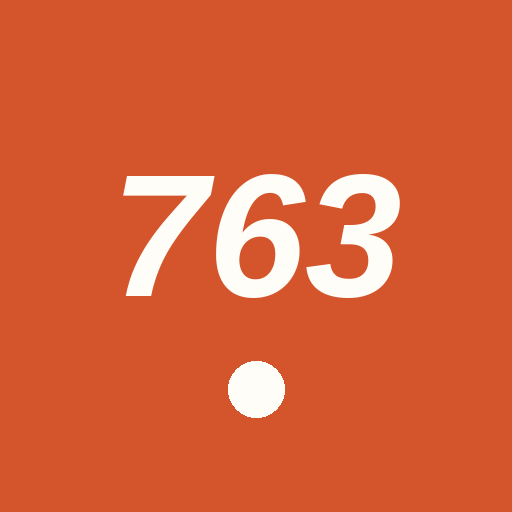
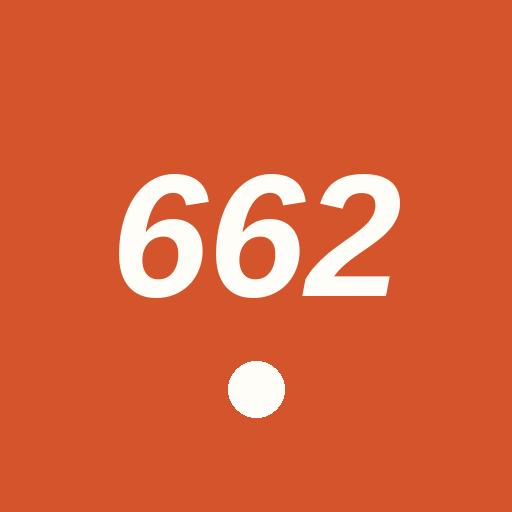
Switch prep tracker to 15-662 Computer Graphics plan
Claude-Session: https://claude.ai/code/session_01VhZfvsRrS4ALEuexr7zm19

Changed region(s): [[0.2188, 0.3438, 0.4375, 0.5938], [0.5938, 0.4375, 0.7812, 0.5938], [0.625, 0.375, 0.6562, 0.4062]]

diff --git a/763-prep/index.html b/763-prep/index.html
@@ -3,8 +3,8 @@
 <head>
 <meta charset="utf-8">
 <meta name="viewport" content="width=device-width, initial-scale=1">
-<title>15-763 Prep · Daily Check-in</title>
-<meta name="description" content="An 8-week, one-hour-a-day prep plan for CMU 15-763 Physics-based Animation of Solids and Fluids.">
+<title>15-662 Prep · Daily Check-in</title>
+<meta name="description" content="An 8-week, one-hour-a-day prep plan for CMU 15-662 Computer Graphics.">
 <link rel="manifest" href="manifest.webmanifest">
 <meta name="theme-color" content="#d4552b">
 <link rel="icon" href="icon-192.png">
@@ -109,9 +109,9 @@
 <body>
 <div class="wrap">
   <header>
-    <div class="eyebrow">CMU 15-763 · Spring 2027 · Prep</div>
-    <h1>One hour a day toward<br>physics-based animation</h1>
-    <p>An 8-week plan: linear algebra → calculus → time integration → optimization → Minchen Li's <em>Physics-Based Simulation</em> book → research mode.</p>
+    <div class="eyebrow">CMU 15-662 · Spring 2027 · Prep</div>
+    <h1>One hour a day toward<br>building your own 3D package</h1>
+    <p>An 8-week plan: C++ → graphics math → rasterizer → half-edge meshes → ray tracer → animation → Scotty3D.</p>
   </header>
 
   <section class="stats" aria-label="Progress">
@@ -148,105 +148,105 @@
     <p class="note">Progress is saved in this browser only. To move it to another device, export here and import there.</p>
   </div>
 
-  <footer>Course: <a href="https://www.cs.cmu.edu/~15763-s26/">15-763 course page</a> · Book: <a href="https://phys-sim-book.github.io/">phys-sim-book.github.io</a></footer>
+  <footer>Course: <a href="https://15462.courses.cs.cmu.edu/fall2022">15-462/662 course site</a> · Code: <a href="https://github.com/CMU-Graphics/Scotty3D">Scotty3D</a></footer>
 </div>
 
 <script>
-const B = "https://phys-sim-book.github.io/";
 const L = {
+  cpp: ["learncpp.com", "https://www.learncpp.com/"],
+  cmake: ["CMake tutorial", "https://cmake.org/cmake/help/latest/guide/tutorial/index.html"],
   eola: ["Essence of Linear Algebra", "https://www.youtube.com/playlist?list=PLZHQObOWTQDPD3MizzM2xVFitgF8hE_ab"],
   khan: ["Khan Academy: Multivariable calculus", "https://www.khanacademy.org/math/multivariable-calculus"],
-  bw: ["Baraff & Witkin course notes", "https://www.cs.cmu.edu/~baraff/sigcourse/"],
-  numpy: ["NumPy quickstart", "https://numpy.org/doc/stable/user/quickstart.html"],
-  scipy: ["scipy.sparse", "https://docs.scipy.org/doc/scipy/reference/sparse.html"],
-  ipc: ["IPC project page", "https://ipc-sim.github.io/"],
-  course: ["15-763 course page", "https://www.cs.cmu.edu/~15763-s26/"],
-  book: ["Book home", B],
+  sap: ["Scratchapixel", "https://www.scratchapixel.com/"],
+  tiny: ["tinyrenderer", "https://github.com/ssloy/tinyrenderer/wiki"],
+  rt1: ["Ray Tracing in One Weekend", "https://raytracing.github.io/books/RayTracingInOneWeekend.html"],
+  rt2: ["Ray Tracing: The Next Week", "https://raytracing.github.io/books/RayTracingTheNextWeek.html"],
+  s3d: ["Scotty3D on GitHub", "https://github.com/CMU-Graphics/Scotty3D"],
+  s3ddocs: ["Scotty3D docs", "https://cmu-graphics.github.io/Scotty3D-docs/"],
+  course: ["15-462/662 course site", "https://15462.courses.cs.cmu.edu/fall2022"],
 };
-const bk = (label, path) => [label, B + path];
 
 const WEEKS = [
- { t:"Linear algebra intuition", g:"See matrices as transformations, and get comfortable with NumPy.", d:[
-  ["Set up + vectors","Set up Python with NumPy and Matplotlib (a venv or Jupyter). Watch the first two Essence of Linear Algebra videos: vectors, span and basis.",[L.eola,L.numpy]],
-  ["Transformations","Watch the videos on linear transformations and matrix multiplication. Code: apply a 2×2 matrix to a grid of points and plot before and after.",[L.eola]],
-  ["Determinant & inverse","Watch the videos on the determinant and on inverse, column space and null space. Code: compute det of a few 2D deformation matrices. What does det < 0 look like? (You'll see this again as 'element inversion'.)",[L.eola]],
-  ["Dot & cross products","Watch the dot product and cross product videos. Code: compute a triangle's area and normal from its 3 vertices.",[L.eola]],
-  ["Change of basis & eigenvectors","Watch the change of basis and eigenvector videos. Connect it: a joint's orient is a change of basis. Code: np.linalg.eig on a symmetric matrix and plot the eigenvectors.",[L.eola]],
-  ["Solving Ax = b","Why solve() beats inv(). Build a 1D Laplacian (tridiagonal) with scipy.sparse and solve it. Every simulator step comes down to this.",[L.scipy]],
-  ["Review + cheat sheet","Catch up if behind. Write a one-page cheat sheet: transform, det, inverse, eigen, solve.",[]],
+ { t:"C++ foundations", g:"Get comfortable writing and compiling small C++ programs.", d:[
+  ["Setup","Install a C++ compiler, CMake and an IDE (VS Code + C/C++ extension, or CLion). Build and run hello world from the terminal.",[L.cpp,L.cmake]],
+  ["Types, functions, references","learncpp: variables, functions, and references. Write a function that swaps two numbers by reference.",[L.cpp]],
+  ["Pointers & memory","learncpp: pointers, the address-of operator, new/delete. Draw a box-and-arrow diagram of what each line does.",[L.cpp]],
+  ["Classes","learncpp: classes, constructors, member functions. Write a Joint class with a name, a parent pointer and a local transform.",[L.cpp]],
+  ["Operator overloading","Write a Vec3 class with +, -, scalar *, dot() and cross(). You'll use it for the rest of the plan.",[L.cpp]],
+  ["The STL","std::vector, std::unordered_map, range-for loops. Store your Joints in a vector and print the hierarchy.",[L.cpp]],
+  ["Review","Catch up. Rewrite the joint hierarchy without looking at your old code.",[]],
  ]},
- { t:"Multivariable calculus & energies", g:"Gradients, Jacobians, Hessians, and checking derivatives numerically.", d:[
-  ["Gradients","Partial derivatives, gradient and directional derivative. Code: plot contours of f(x,y) with gradient arrows on top.",[L.khan]],
-  ["Jacobians","The Jacobian as the local linear map. Code: a finite-difference Jacobian of a 2D map, compared with the analytic one.",[L.khan]],
-  ["Hessian & Taylor","The Hessian and the 2nd-order Taylor approximation. This is what Newton's method uses.",[L.khan]],
-  ["Spring energy: gradient","E = ½k(‖x₁−x₂‖ − L)². Derive ∂E/∂x by hand, then verify with finite differences. A gradient check is your #1 debugging tool.",[]],
-  ["Spring energy: Hessian","Derive the Hessian (the 2×2 blocks), then verify it with finite differences of your gradient.",[]],
-  ["Positive definiteness","Eigenvalues of the spring Hessian when stretched vs compressed. Notice negative ones when compressed: that's why 'projected Newton' exists.",[]],
-  ["Review","Catch up. Add derivatives and gradient checking to your cheat sheet.",[]],
+ { t:"C++ for a real codebase", g:"The habits Scotty3D needs: headers, builds, debugging, linked structures.", d:[
+  ["Headers & multiple files","Split Vec3 into a .h and .cpp. Build both with a CMakeLists.txt.",[L.cmake]],
+  ["Use a debugger","Set breakpoints, step through code, inspect variables. Plant a bug in Vec3 and find it with the debugger only.",[]],
+  ["const and passing by reference","When to use const T&, const member functions. Fix every const warning in your Vec3.",[L.cpp]],
+  ["Smart pointers & RAII","std::unique_ptr and std::shared_ptr. Rebuild the joint tree so nothing leaks.",[L.cpp]],
+  ["Iterators & std::list","Scotty3D's half-edge mesh is built on list iterators. Practise inserting and erasing from a std::list while holding iterators.",[L.cpp]],
+  ["Templates (basics)","Function and class templates. Write a template lerp(a, b, t) that works for floats and Vec3.",[L.cpp]],
+  ["Review + Mat4","Write a 4x4 matrix class with multiply and transform-point. Test it against a known rotation.",[]],
  ]},
- { t:"Time integration", g:"Explicit vs implicit, and why stiff springs explode.", d:[
-  ["ODE basics","Baraff & Witkin: 'Differential Equation Basics' notes.",[L.bw]],
-  ["Book ch.1 (1.1–1.3)","Solid representations, Newton's second law, time integration.",[bk("1.1 Solid geometry","simulation-with-optimization/discrete-space-and-time/solid_rep.html"),bk("1.3 Time integration","simulation-with-optimization/discrete-space-and-time/time_integration.html")]],
-  ["Explicit Euler","Read 1.4. Code: a mass on a spring with forward Euler. Plot energy over time and watch it grow.",[bk("1.4 Explicit","simulation-with-optimization/discrete-space-and-time/explicit_time_integration.html")]],
-  ["Implicit Euler","Read 1.5. Code: backward Euler for the same spring. Raise the stiffness ×100. Does it still run?",[bk("1.5 Implicit","simulation-with-optimization/discrete-space-and-time/implicit_time_integration.html")]],
-  ["Symplectic Euler","Implement symplectic Euler. Plot the energy of all three integrators on one chart.",[]],
-  ["Particle systems","Baraff & Witkin: 'Particle System Dynamics' notes.",[L.bw]],
-  ["Review + Houdini link","Catch up. Note what substeps and constraint iterations really trade off in Vellum and POPs.",[]],
+ { t:"Math for graphics", g:"The linear algebra and calculus the course assumes.", d:[
+  ["Vectors, dot, cross","Essence of Linear Algebra: vectors and the dot/cross product videos. Compute a triangle's normal and area with your Vec3.",[L.eola]],
+  ["Matrices as transforms","Videos on linear transformations and matrix multiplication. Apply scale, rotate and shear to a set of points.",[L.eola]],
+  ["Homogeneous coordinates","Why 4x4 matrices: translation as a matrix. Build a model-to-world transform from translate × rotate × scale. Check the order matters.",[L.sap]],
+  ["Rotations","Euler angles vs axis-angle vs quaternions (your rigging gimbal-lock knowledge applies). Implement axis-angle to matrix.",[L.sap]],
+  ["Barycentric coordinates","Express a point inside a triangle as a weighted sum of corners. Write a function that returns the weights.",[L.sap]],
+  ["Derivatives refresher","Gradients and partial derivatives. You'll need them for IK and simulation.",[L.khan]],
+  ["Review","Catch up and write a one-page cheat sheet of transforms and formulas.",[]],
  ]},
- { t:"Simulation as optimization", g:"Implicit Euler = minimizing an energy. Newton's method and line search.", d:[
-  ["Optimization time integrator","Book 2.1: an implicit step equals minimizing the incremental potential.",[bk("2.1","simulation-with-optimization/optimization-framework/opt_time_integration.html")]],
-  ["Newton's method","Code: minimize the Rosenbrock function with Newton in 2D. Print the iteration count.",[]],
-  ["Convergence & line search","Book 3.1–3.2. Add backtracking line search to your Newton solver.",[bk("3.1","simulation-with-optimization/projected-newton/conv_issue_Newton.html"),bk("3.2","simulation-with-optimization/projected-newton/line_search.html")]],
-  ["Gradient descent vs Newton","Book 3.3. Compare iteration counts on the same problem.",[bk("3.3","simulation-with-optimization/projected-newton/grad_based_opt.html")]],
-  ["Boundary, contact, friction overview","Book 2.2–2.5. Skim for the big picture; mastery comes later.",[bk("2.2","simulation-with-optimization/optimization-framework/dirichlet_BC.html"),bk("2.3","simulation-with-optimization/optimization-framework/contact.html"),bk("2.4","simulation-with-optimization/optimization-framework/friction.html")]],
-  ["Rebuild your spring","Rewrite your implicit spring as: minimize ½‖x − x̃‖²_M + h²E(x) with your Newton solver and line search.",[]],
-  ["Review","Catch up. Explain to yourself, out loud, why this formulation is stable.",[]],
+ { t:"Rasterization", g:"A tiny version of the course's first assignment.", d:[
+  ["Write an image file","Write a program that outputs a gradient as a .ppm image. Open it in an image viewer.",[L.tiny]],
+  ["Draw lines","Implement a line-drawing algorithm (Bresenham) and draw a wireframe triangle.",[L.tiny]],
+  ["Fill triangles","Fill a triangle by testing each pixel with edge functions.",[L.tiny,L.sap]],
+  ["Interpolate colours","Use barycentric weights to blend colours across the triangle.",[L.sap]],
+  ["Depth buffer","Draw two overlapping triangles correctly with a z-buffer.",[L.tiny]],
+  ["Antialiasing","Supersample (several samples per pixel) and average. Compare jaggies before and after.",[L.sap]],
+  ["Review","Catch up. Render a simple OBJ model as a wireframe or filled mesh.",[L.tiny]],
  ]},
- { t:"Case study: 2D mass-spring", g:"Run, read and break the book's first real simulator.", d:[
-  ["Ch.4 setup","Read 4.1–4.2. Get the book's Python code for this chapter running.",[bk("4 Mass-spring","simulation-with-optimization/case-study-2d-mass-spring/2d_mass_spring.html"),bk("4.2 Inertia","simulation-with-optimization/case-study-2d-mass-spring/inertia.html")]],
-  ["Mass-spring energy","Read 4.3 and compare it with your own derivation from week 2.",[bk("4.3","simulation-with-optimization/case-study-2d-mass-spring/mass_spring_energy.html")]],
-  ["Trace the integrator","Read 4.4. Add prints and trace one Newton iteration end to end.",[bk("4.4","simulation-with-optimization/case-study-2d-mass-spring/opt_time_integrator.html")]],
-  ["Break it","Read 4.5 and run the visualization. Change stiffness and timestep, and write down what breaks and when.",[bk("4.5","simulation-with-optimization/case-study-2d-mass-spring/sim_with_vis.html")]],
-  ["Make it yours","Turn it into a grid 'cloth' and pin two top corners (a crude version; proper boundaries come next week).",[]],
-  ["GPU (optional)","Skim 4.6 on GPU acceleration. No need to run it.",[bk("4.6","simulation-with-optimization/case-study-2d-mass-spring/gpu_accel.html")]],
-  ["Review","Save a GIF of your sim and a short note on what you learned.",[]],
+ { t:"Meshes & the half-edge", g:"The data structure behind every mesh-editing tool you use in Maya.", d:[
+  ["Mesh representations","Vertex list + face list vs half-edge. Why bevel and subdivide need neighbour information.",[L.s3ddocs]],
+  ["Half-edge on paper","Draw a two-triangle mesh. Label every half-edge with its twin, next, vertex, edge and face.",[]],
+  ["Build a half-edge mesh","Write classes for Vertex, Edge, HalfEdge, Face. Build one from a tiny OBJ.",[L.cpp]],
+  ["Traversal","Loop around a vertex to list its neighbours. Print each vertex's valence.",[]],
+  ["Edge flip","Implement edge flip on your two-triangle mesh. Check every pointer afterwards.",[L.s3ddocs]],
+  ["Edge split","Implement edge split. Write a validity checker that walks the whole mesh.",[L.s3ddocs]],
+  ["Review","Read about Loop subdivision and how split + flip combine to do it.",[L.course]],
  ]},
- { t:"Boundaries & contact (the IPC core)", g:"Pinning, barriers and penetration-free line search.", d:[
-  ["Dirichlet BCs","Book 5.1–5.2: equality constraints vs DOF elimination.",[bk("5.1","boundary-treatments/dirichlet-boundary-conditions/equality_constraints.html"),bk("5.2","boundary-treatments/dirichlet-boundary-conditions/DOF_elimin.html")]],
-  ["Hanging square","Book 5.3. Run it, then change which vertices are pinned.",[bk("5.3","boundary-treatments/dirichlet-boundary-conditions/hanging_square.html")]],
-  ["Distance barrier","Book 7.1–7.2: signed distances and the barrier. This is the core idea of IPC.",[bk("7.1","boundary-treatments/distance-barrier-for-nonpenetration/signed_dists.html"),bk("7.2","boundary-treatments/distance-barrier-for-nonpenetration/dist_barrier_formulation.html")]],
-  ["Barrier accuracy","Book 7.3. Plot the barrier function for a few values of d̂.",[bk("7.3","boundary-treatments/distance-barrier-for-nonpenetration/sol_accuracy.html")]],
-  ["Filter line search","Book 8.1–8.2: tunneling and penetration-free trajectories.",[bk("8.1","boundary-treatments/filter-line-search/tunneling.html"),bk("8.2","boundary-treatments/filter-line-search/nonpenetration_traj.html")]],
-  ["Square drop","Book 8.3. Run it, then vary the drop height and timestep. Does it ever penetrate?",[bk("8.3","boundary-treatments/filter-line-search/square_drop.html")]],
-  ["Review","Catch up and update your notes.",[]],
+ { t:"Ray tracing", g:"A path-tracer warm-up, plus the BVH that makes it fast.", d:[
+  ["Rays & image","Ray Tracing in One Weekend: output an image, vec3 and ray classes (compare with your own Vec3).",[L.rt1]],
+  ["Spheres & normals","Ray-sphere intersection and surface normals.",[L.rt1]],
+  ["Antialiasing & diffuse","Multiple samples per pixel and diffuse (Lambertian) bounces.",[L.rt1]],
+  ["Materials","Metal and glass materials. Notice the randomness: this is Monte Carlo rendering.",[L.rt1]],
+  ["Camera","A positionable camera with field of view and depth of field.",[L.rt1]],
+  ["BVH","Ray Tracing: The Next Week, the BVH chapter. Why a tree of boxes makes rendering fast.",[L.rt2]],
+  ["Review","Render your final scene. Time it with and without a BVH if you got that far.",[]],
  ]},
- { t:"Friction & elasticity", g:"Friction, the deformation gradient F, and inversion-free FEM.", d:[
-  ["Frictional contact","Book 9.1–9.2.",[bk("9.1","boundary-treatments/frictional-contact/smooth_fric.html"),bk("9.2","boundary-treatments/frictional-contact/semi_imp_fric.html")]],
-  ["Square on slope","Book ch.10. Run it and vary μ. Find where it starts to slide.",[bk("10","boundary-treatments/case-study-square-on-slope/square_on_slope.html")]],
-  ["Deformation gradient F","Book ch.12. Connect it to rig deformation: F is the local transform, just like a skinning matrix.",[bk("12.2","hyperelasticity/kinematics-theory/deformation.html")]],
-  ["Rotation invariance & SVD","Book 13.1–13.2.",[bk("13.1","hyperelasticity/strain-energy/rigid_null_rot_inv.html"),bk("13.2","hyperelasticity/strain-energy/polar_svd.html")]],
-  ["Invertibility","Book 13.3: det F ≤ 0 means an inverted element. Remember day 3!",[bk("13.3","hyperelasticity/strain-energy/simp_model_inversion.html")]],
-  ["Inversion-free elasticity","Book ch.15. Run the case study.",[bk("15","hyperelasticity/case-study-inversion-free-elasticity/inv_free_elasticity.html")]],
-  ["Review","Catch up. Skim ch.14 (stress) only if you have time.",[bk("14","hyperelasticity/stress-and-its-derivatives/stress_and_derivatives.html")]],
+ { t:"Animation", g:"Your home turf, now written in code: splines, skeletons, IK, skinning.", d:[
+  ["Splines","Implement a Catmull-Rom or Hermite spline and animate a point along it.",[L.course]],
+  ["Keyframe interpolation","Interpolate positions and rotations between keyframes. Use slerp for rotations.",[]],
+  ["Forward kinematics","Compute world positions of a 3-joint chain from local transforms (the Joint class from week 1).",[]],
+  ["Inverse kinematics","Implement 2D IK with CCD or gradient descent. Drag a target and watch the chain follow.",[L.khan]],
+  ["Linear blend skinning","Skin a 2D strip of vertices to two bones with weights. Watch the candy-wrapper artefact appear.",[]],
+  ["Particles","Simulate falling particles with forward Euler, then bounce off the ground.",[]],
+  ["Review","Catch up. Note which of these are in Scotty3D's animation assignment.",[L.s3ddocs]],
  ]},
- { t:"Research mode", g:"Read papers, connect to your FX and rigging work, and get ready for class.", d:[
-  ["PBD & XPBD","Book ch.32, the method family behind Houdini Vellum. Compare it with the optimization approach: what does each give up?",[bk("32","position-based-simulations/position-based-dynamics-pbd/position_based_dynamics.html"),bk("32.5 XPBD","position-based-simulations/position-based-dynamics-pbd/stiffness_damping.html")]],
-  ["IPC paper, pass 1","Read the abstract, introduction and every figure.",[L.ipc]],
-  ["IPC paper, pass 2","Skim the method section. Write a 5-bullet summary as if you were presenting it.",[L.ipc]],
-  ["Pick papers to present","Browse recent physics papers from top graphics venues and shortlist 2 you'd like to present.",[L.course]],
-  ["Project ideas","Write down 3 project ideas tied to rigging and FX, e.g. sim-driven secondary motion on a rig, XPBD vs IPC on a character, collision-aware skinning.",[]],
-  ["Intro email draft","Draft a short note to Prof. Li: your background, interest, and top project idea. Review the course page.",[L.course]],
-  ["Ready for class","Final cheat-sheet pass. Plan your first week of class.",[]],
+ { t:"Ready for Scotty3D", g:"Build the real codebase before day one.", d:[
+  ["Build Scotty3D","Clone and build Scotty3D on your machine. Fix any compiler or CMake issues now, not in week one of class.",[L.s3d]],
+  ["Tour the app","Use Scotty3D as an artist: model, render, animate. Note what feels like Maya and what doesn't.",[L.s3ddocs]],
+  ["Read the code","Find where meshes, the renderer and the animator live. Read the half-edge header.",[L.s3d]],
+  ["Private repo setup","Set up a private Git repo for your coursework. The course asks students not to publish solutions in a public fork.",[L.s3d]],
+  ["Course logistics","Read the course site: grading, late days, collaboration policy, how assignments are structured.",[L.course]],
+  ["Plan your weeks","Block time in your calendar around ETC project hours. Expect 12–17 hours a week on 662.",[]],
+  ["Ready for class","Final pass on your cheat sheet. Rest.",[]],
  ]},
 ];
 const TASKS = WEEKS.flatMap((w,wi)=>w.d.map((d,di)=>({id:wi*7+di+1,week:wi+1,title:d[0],what:d[1],links:d[2]})));
 const N = TASKS.length;
 
-const KEY = "sim763prep.v1";
+const KEY = "cg662prep.v1";
 const DEFAULT_START = "2026-11-20";
 const load = () => { try { return JSON.parse(localStorage.getItem(KEY)) || null } catch { return null } };
 let S = load() || { start: DEFAULT_START, done: {}, log: [] };
-if (S.start === "2026-11-16") { S.start = DEFAULT_START; }
 const save = () => { try { localStorage.setItem(KEY, JSON.stringify(S)) } catch {} };
 
 const pad = n => String(n).padStart(2,"0");
@@ -292,7 +292,7 @@ function renderToday(){
   const today = todayStr();
   const checkedToday = S.log.some(e=>e.date===today);
   if (!t) {
-    el.innerHTML = `<div class="eyebrow">All done</div><h2>All 56 sessions complete 🎉</h2><p class="what">You're ready for 15-763. Go send that intro email.</p>`;
+    el.innerHTML = `<div class="eyebrow">All done</div><h2>All 56 sessions complete 🎉</h2><p class="what">You're ready for 15-662. Go build Scotty3D.</p>`;
     return;
   }
   const planDay = diffDays(S.start, today) + 1;
@@ -391,7 +391,7 @@ document.getElementById("startDate").onchange = e => { if (e.target.value) { S.s
 document.getElementById("btnExport").onclick = () => {
   const blob = new Blob([JSON.stringify(S,null,2)], {type:"application/json"});
   const a = document.createElement("a"); a.href = URL.createObjectURL(blob);
-  a.download = `763-prep-${todayStr()}.json`; a.click(); URL.revokeObjectURL(a.href);
+  a.download = `662-prep-${todayStr()}.json`; a.click(); URL.revokeObjectURL(a.href);
 };
 document.getElementById("btnImport").onclick = () => document.getElementById("fileIn").click();
 document.getElementById("fileIn").onchange = async e => {
